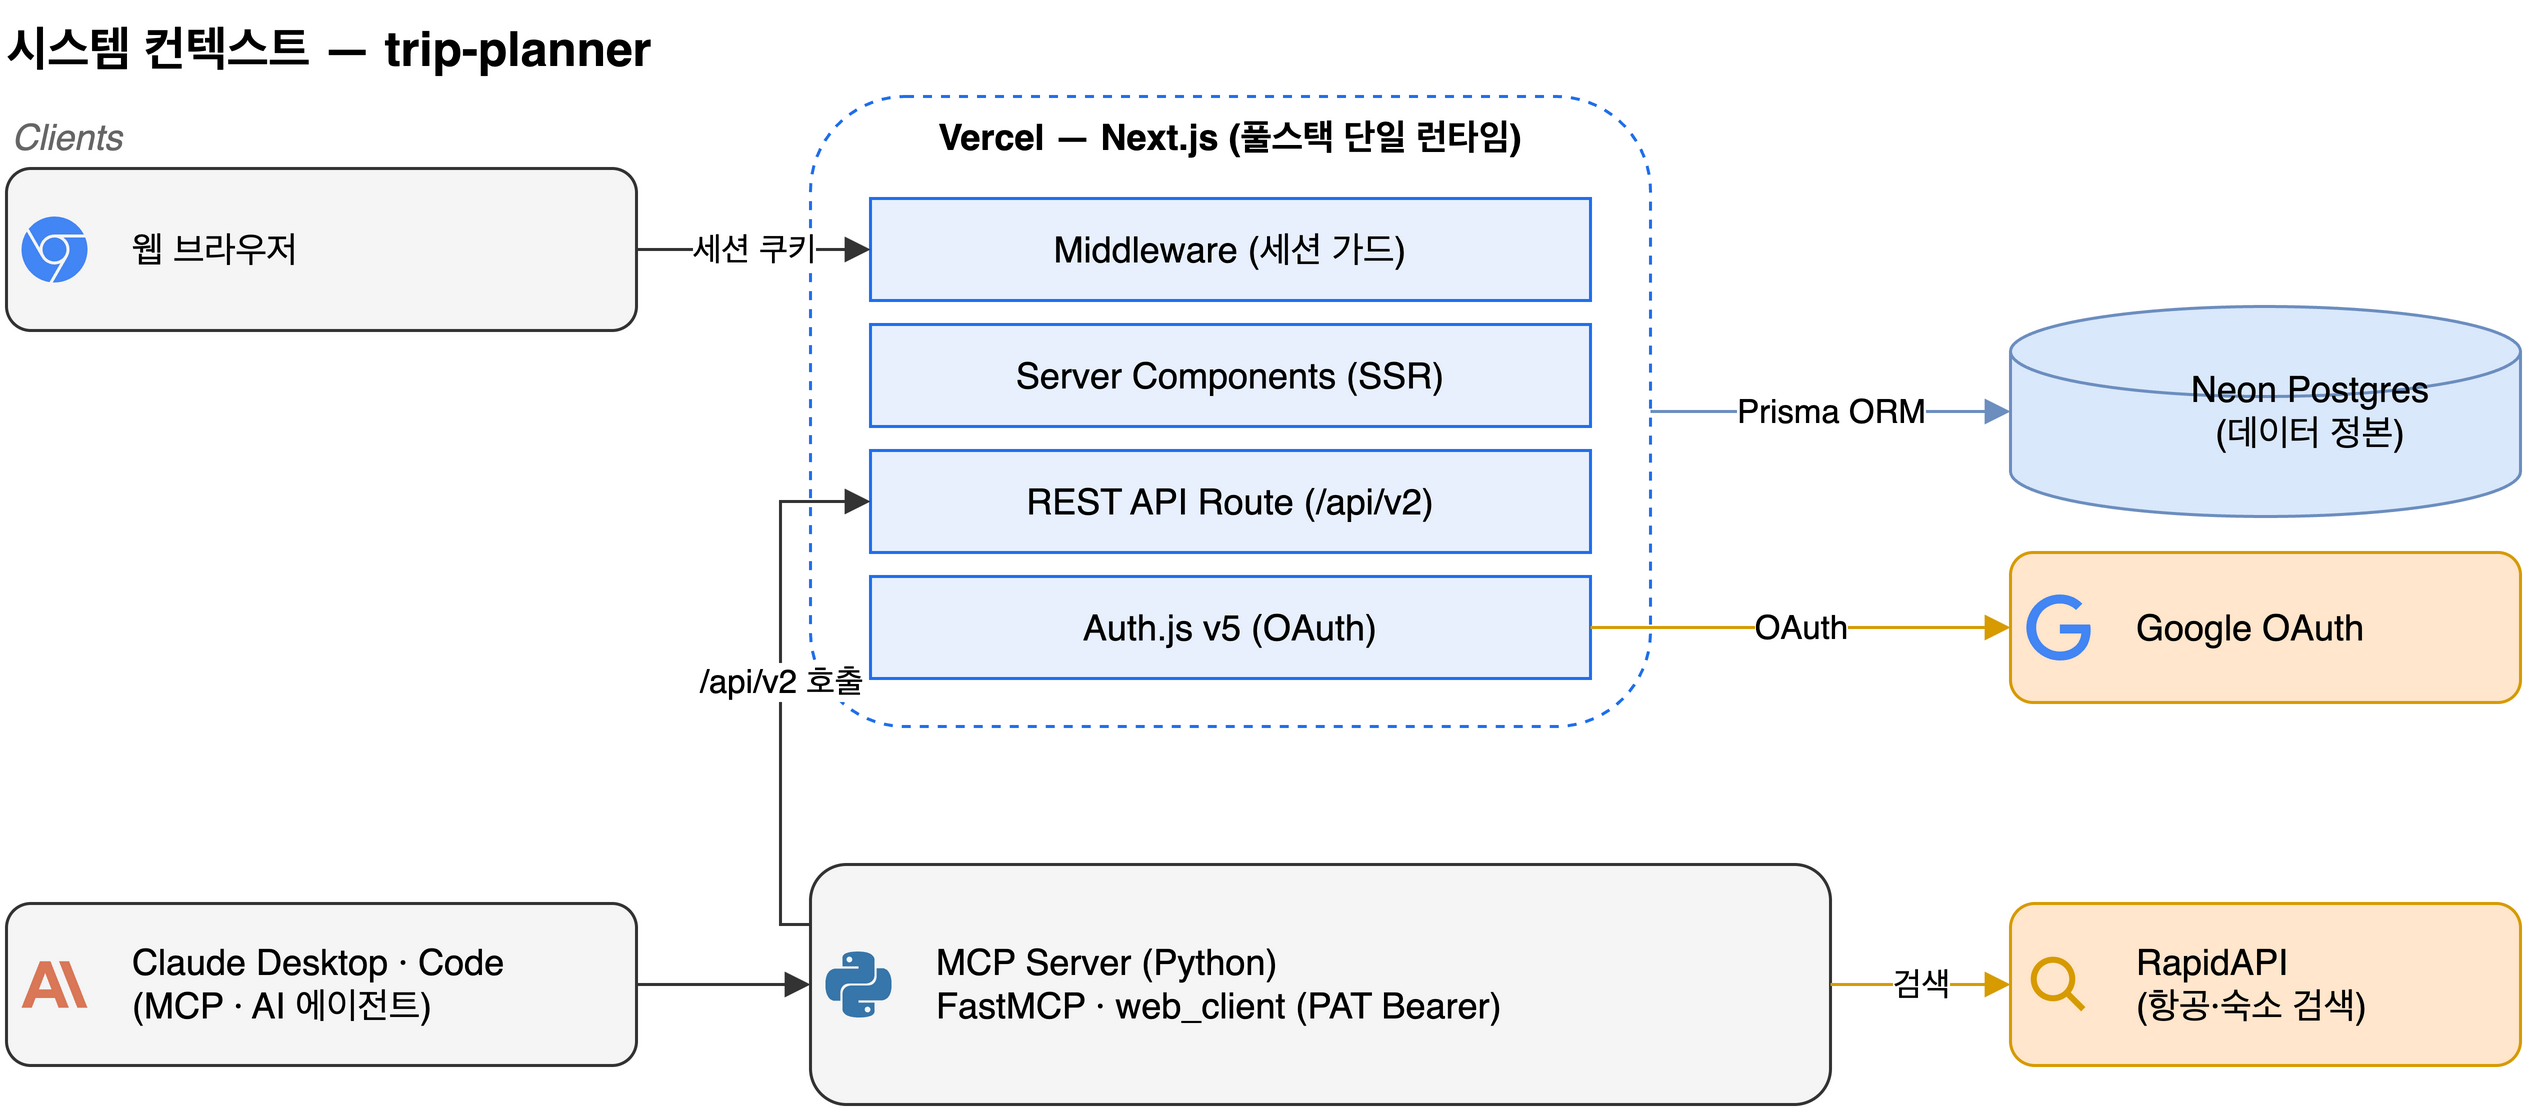
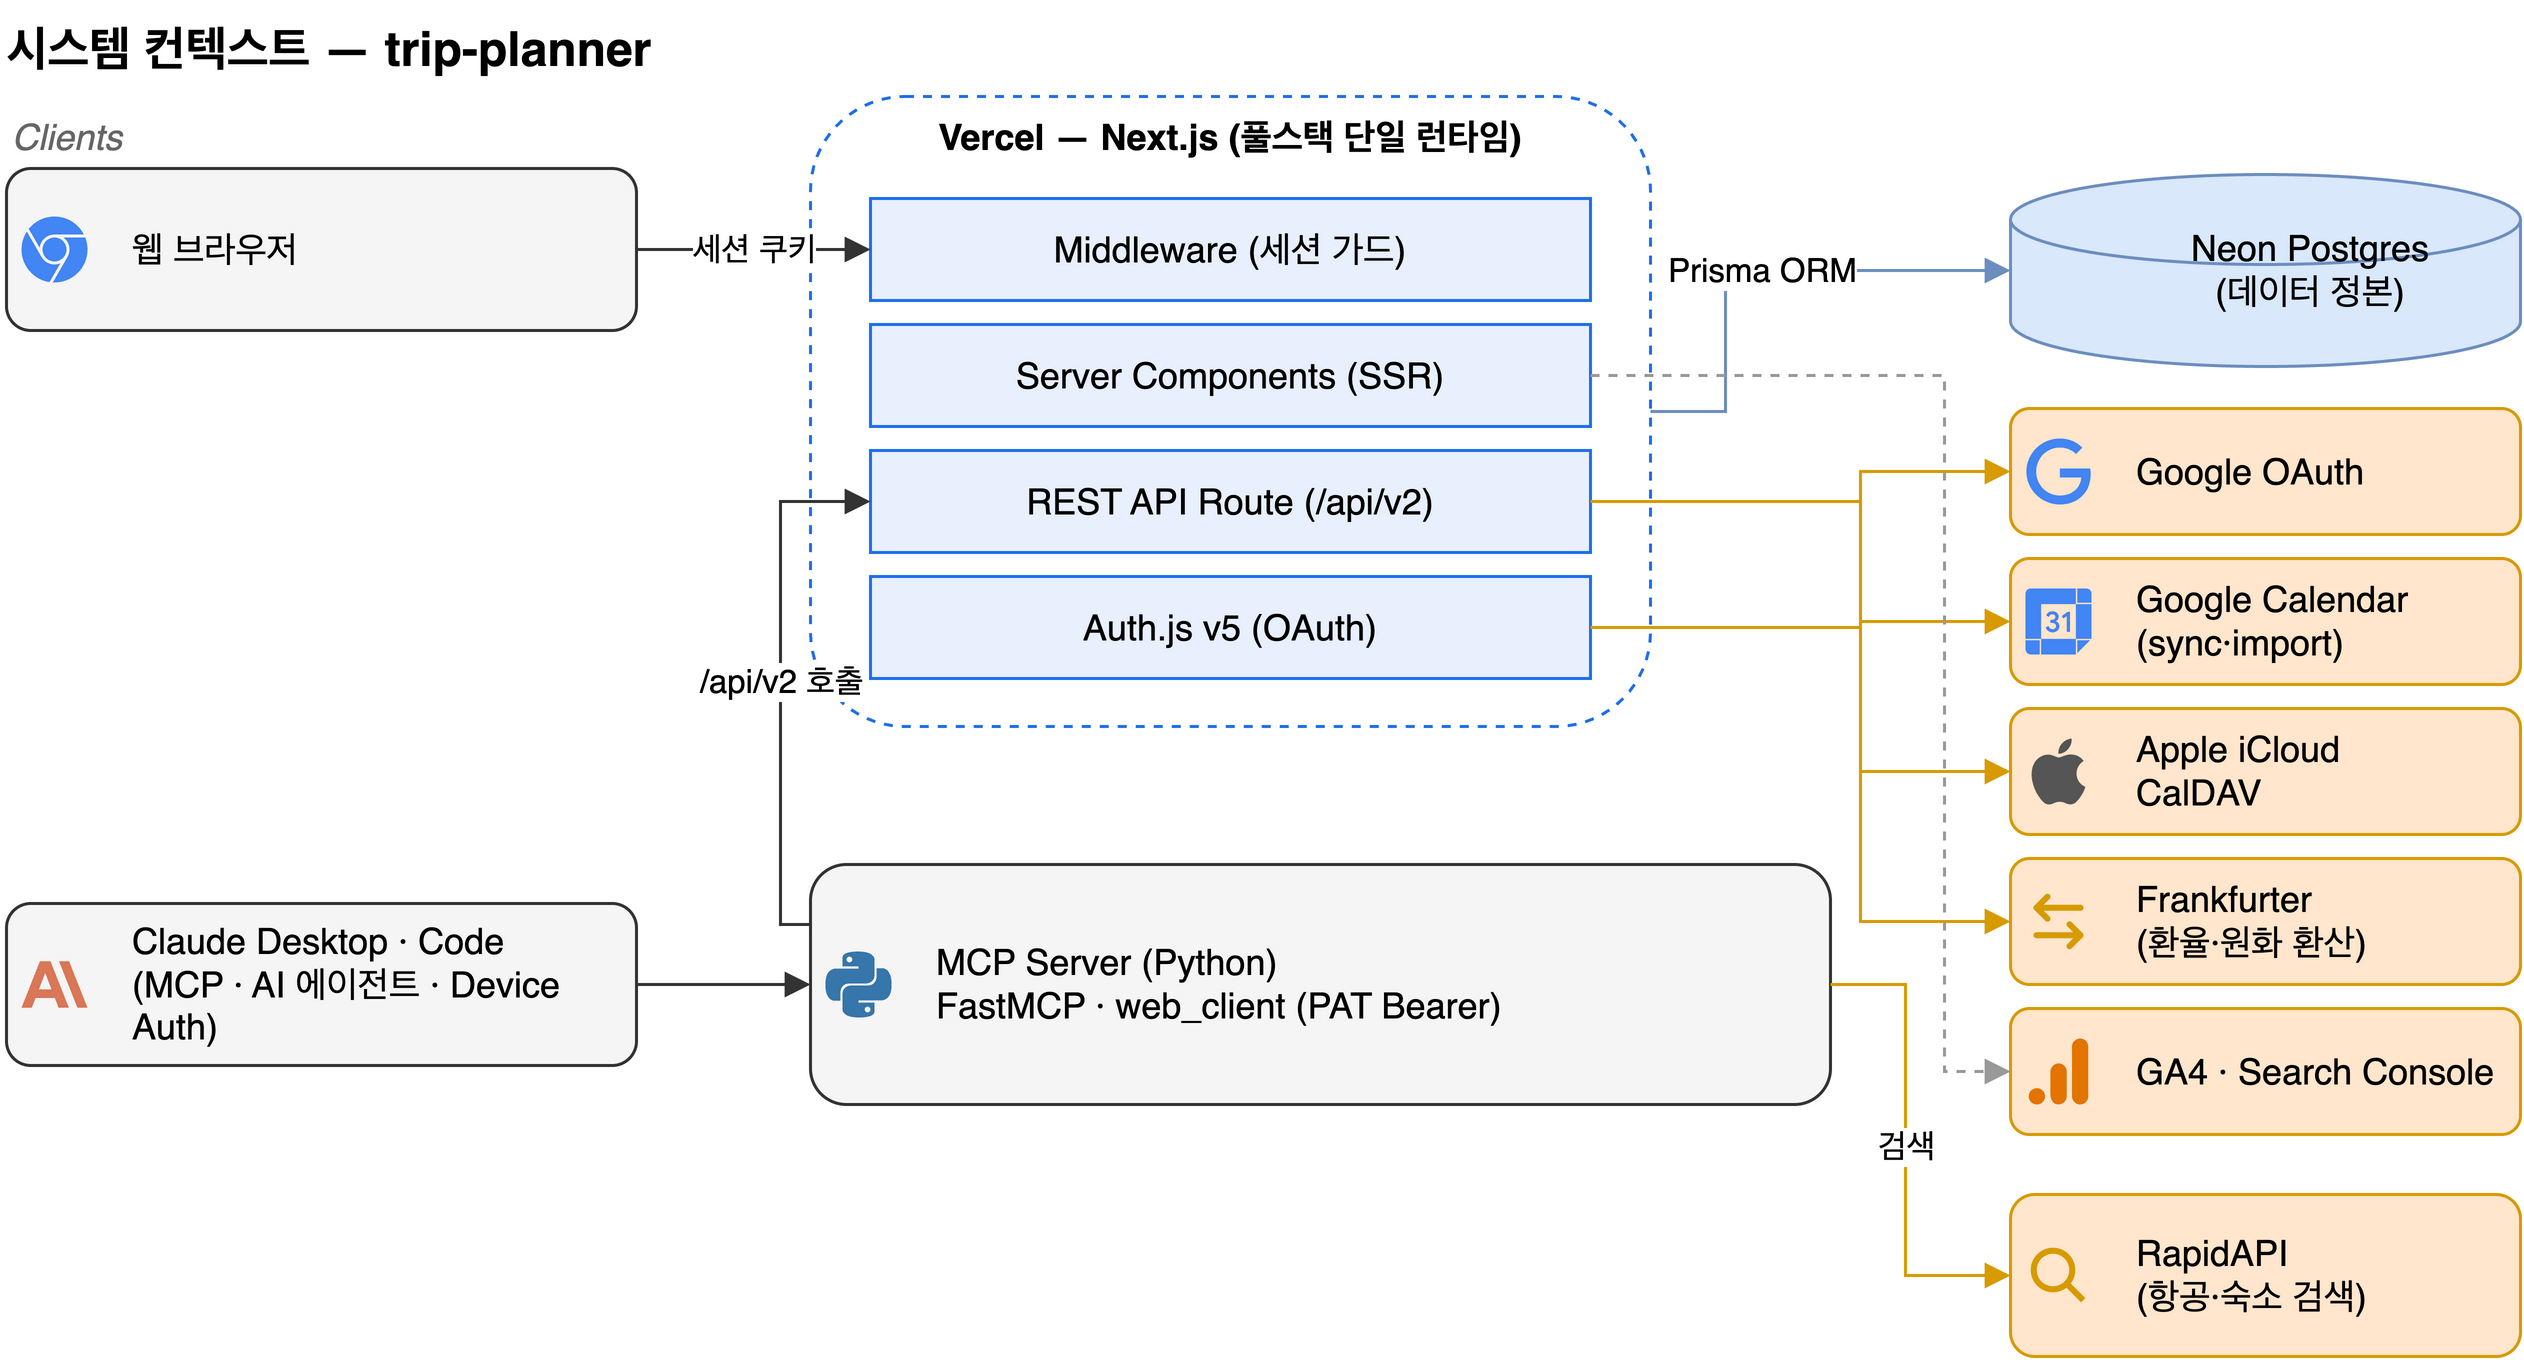
chore(release): v4.5.1 (#860)
## 작업 내용

v4.5.1 릴리즈. 개발 문서(ERD·아키텍처·시스템 컨텍스트 다이어그램)를 현재 데이터 모델·외부 연동 구성에 맞게 현행화한
결과를 릴리즈합니다.

## 변경 사항

- `CHANGELOG.md` — 4.5.1 섹션 towncrier 빌드 (docs 단편 소비)
- `pyproject.toml` · `uv.lock` — 버전 4.5.0 → 4.5.1

## 릴리즈 범위 (develop → main)

- 개발 문서 5종 + system-context 다이어그램 현행화 (#857, 이슈 #856)

## 자가 검증

| 항목 | 결과 | 비고 |
|------|------|------|
| towncrier build | ✅ 완료 | docs 단편 소비, CHANGELOG 4.5.1 생성 |
| 버전 정합 | ✅ 완료 | pyproject.toml · uv.lock = 4.5.1 |
| 빌드/테스트 | ⬜ 해당없음 | docs-only, 코드 무변경 |

머지 후 CI가 자동으로 태그·GitHub Release·PyPI 배포·main→develop sync PR을 생성합니다.

Pull request: chore(release): v4.5.1
## 작업 내용

v4.5.1 릴리즈. 개발 문서(ERD·아키텍처·시스템 컨텍스트 다이어그램)를 현재 데이터 모델·외부 연동 구성에 맞게 현행화한 결과를 릴리즈합니다.

## 변경 사항

- `CHANGELOG.md` — 4.5.1 섹션 towncrier 빌드 (docs 단편 소비)
- `pyproject.toml` · `uv.lock` — 버전 4.5.0 → 4.5.1

## 릴리즈 범위 (develop → main)

- 개발 문서 5종 + system-context 다이어그램 현행화 (#857, 이슈 #856)

## 자가 검증

| 항목 | 결과 | 비고 |
|------|------|------|
| towncrier build | ✅ 완료 | docs 단편 소비, CHANGELOG 4.5.1 생성 |
| 버전 정합 | ✅ 완료 | pyproject.toml · uv.lock = 4.5.1 |
| 빌드/테스트 | ⬜ 해당없음 | docs-only, 코드 무변경 |

머지 후 CI가 자동으로 태그·GitHub Release·PyPI 배포·main→develop sync PR을 생성합니다.

diff --git a/docs/ERD.md b/docs/ERD.md
@@ -47,8 +47,6 @@ erDiagram
         int id PK "autoincrement"
         string title "여행 제목"
         text description "여행 설명 (마크다운)"
-        timestamptz startDate "여행 시작일"
-        timestamptz endDate "여행 종료일"
         string createdBy FK "생성자"
         string updatedBy FK "최종 수정자"
         timestamptz createdAt "생성 시각"
@@ -74,9 +72,11 @@ erDiagram
         varchar endTimezone "종료 표시 시간대 (IANA, NULL이면 startTimezone)"
         string location "장소명"
         text memo "메모"
+        text url "참고 링크 (예약·정보 페이지, nullable)"
         decimal cost "예상 비용 (10,2)"
         varchar currency "ISO 4217 통화 코드 (기본 EUR)"
         enum paymentTiming "지출 시점: ADVANCE(사전) ON_SITE(현장, 기본값)"
+        boolean allDay "종일 일정 여부 (is_all_day, 기본 false)"
         int sortOrder "일자 내 표시 순서 (0부터)"
         timestamptz createdAt "생성 시각"
         timestamptz updatedAt "수정 시각"
@@ -105,6 +105,7 @@ erDiagram
         int id PK "autoincrement"
         int tripId FK,UK "여행당 1개 (v2.9.0+ 정본)"
         string ownerId FK "공유 캘린더 소유 주인"
+        enum provider "캘린더 제공자: GOOGLE(기본) APPLE (spec 024)"
         string calendarId "외부 캘린더 ID"
         string calendarName "표시 이름"
         timestamptz lastSyncedAt "최근 동기화 시각"
@@ -133,6 +134,7 @@ erDiagram
         int id PK "autoincrement"
         string userId FK "per-user (레거시 v2.8.0)"
         int tripId FK "소속 여행"
+        enum provider "캘린더 제공자: GOOGLE(기본) APPLE"
         string calendarId "외부 캘린더 ID"
         enum calendarType "DEDICATED PRIMARY"
         string calendarName "표시 이름"
@@ -145,6 +147,70 @@ erDiagram
         int activityId FK "원천 활동"
         string googleEventId "외부 이벤트 ID"
         string syncedEtag "최근 동기화 ETag"
+    }
+
+    AppleCalendarCredential {
+        string userId PK,FK "소유 사용자 (1:1)"
+        string appleId "Apple ID"
+        string encryptedPassword "AES-256-GCM 암호화 app password"
+        string iv "암호화 IV (base64, 12바이트)"
+        timestamptz lastValidatedAt "최근 검증 시각"
+        string lastError "최근 오류"
+    }
+
+    ImportRun {
+        int id PK "autoincrement"
+        int tripId FK "소속 여행"
+        string triggeredByUserId FK "실행 사용자"
+        enum provider "출처: GOOGLE APPLE"
+        string externalCalendarId "외부 캘린더 ID"
+        int importedCount "가져온 수"
+        int skippedCount "건너뛴 수"
+        int failedCount "실패 수"
+        array failedTitles "실패 제목 목록"
+        timestamptz startedAt "시작 시각"
+        timestamptz finishedAt "종료 시각"
+    }
+
+    ActivityDraft {
+        int id PK "autoincrement"
+        int tripId FK "소속 여행"
+        int dayId FK "배치 일자 (nullable)"
+        int importRunId FK "소속 가져오기 실행"
+        enum provider "출처: GOOGLE APPLE"
+        string externalCalendarId "외부 캘린더 ID"
+        string externalEventId "외부 이벤트 ID"
+        string title "제목 (외부 자동 채움)"
+        timestamptz startTime "시작 (외부 자동)"
+        timestamptz endTime "종료 (외부 자동)"
+        boolean isAllDay "종일 여부"
+        string locationText "장소 텍스트"
+        text description "설명"
+        varchar startTimezone "시작 표시 시간대 (사용자 보강)"
+        varchar endTimezone "종료 표시 시간대 (사용자 보강)"
+        enum status "PENDING PROMOTED DELETED"
+        int promotedToActivityId FK,UK "승격된 활동 (nullable)"
+        timestamptz lastRefreshedAt "최근 갱신 시각"
+    }
+
+    ExchangeRate {
+        int id PK "autoincrement"
+        date date "환율 일자"
+        varchar base "기준 통화 (ISO 4217)"
+        decimal rateToKrw "현지 1단위 = 원화 N (18,6)"
+        timestamptz fetchedAt "확보 시각"
+    }
+
+    DeviceAuthorizationRequest {
+        string id PK "cuid"
+        string deviceCodeHash UK "디바이스 코드 해시"
+        string userCode UK "사용자 코드"
+        enum status "PENDING APPROVED DENIED"
+        string userId FK "승인 사용자 (nullable)"
+        timestamptz expiresAt "만료 시각"
+        int interval "폴링 간격(초, 기본 5)"
+        timestamptz lastPolledAt "최근 폴링 시각"
+        timestamptz createdAt "생성 시각"
     }
 
     User ||--o{ Account : "has"
@@ -166,7 +232,17 @@ erDiagram
     User ||--o{ GCalLink : "legacy per-user"
     GCalLink ||--o{ GCalEventMapping : "legacy maps"
     Activity ||--o{ GCalEventMapping : "legacy exported as"
+    User ||--o| AppleCalendarCredential : "stores (1:1)"
+    Trip ||--o{ ImportRun : "imported into"
+    User ||--o{ ImportRun : "triggers"
+    ImportRun ||--o{ ActivityDraft : "produces"
+    Trip ||--o{ ActivityDraft : "staged in"
+    Day ||--o{ ActivityDraft : "placed on (nullable)"
+    Activity ||--o| ActivityDraft : "promoted from"
+    User ||--o{ DeviceAuthorizationRequest : "approves"
 ```
+
+> `ExchangeRate`는 다른 엔티티와 FK 관계가 없는 독립 캐시 테이블이다 — `(date, base)`당 한 줄로 원화 근사 시세를 저장한다(spec 062).
 
 ## 설계 결정
 
@@ -178,12 +254,12 @@ erDiagram
 - nullable: 대부분 활동은 Day 도시 시간대와 동일하므로 생략 가능
 - 예: `startTimezone: "Asia/Seoul"` → 표시: `13:00 KST`
 
-### Day의 일자 번호 (dayNumber)
+### 여행 기간 (derived) 및 일자 번호
 
+- **Trip은 `startDate`/`endDate` 컬럼을 가지지 않는다** (spec 029 T051, v3.0.0 contract 단계에서 DROP). 시작·종료일은 등록된 Day의 min/max date에서 파생한다 — `src/lib/trip-period.ts::getDerivedPeriod`
 - Day는 `sortOrder` 컬럼을 가지지 않는다 (v2.7.1에서 DROP)
-- "DAY 1, DAY 2…" 표시는 `(date - trip.startDate) + 1`로 파생
+- "DAY 1, DAY 2…" 표시는 `(date - 최소 Day date) + 1`로 파생
 - `(tripId, date)` 유니크 제약으로 같은 날짜 중복 차단
-- Day 추가 시 date가 Trip 범위 밖이면 Trip.startDate/endDate가 자동 확장됨
 - v1 API(`/api/trips/...`)는 응답에 `sortOrder`를 동적 부착해 MCP 호환 유지
 
 ### 캘린더 모델 이원화 (v2.9.0~v2.10.0)
@@ -199,3 +275,26 @@ erDiagram
 | 레거시 | `GCalEventMapping` | v2.8.0 | per-user 매핑. v2.10.0에서 410 Gone 라우트로 전환 |
 
 레거시 두 테이블의 DROP은 후속 릴리즈(v2.11.0+)에서 contract 단계로 진행. 자세한 정책은 [ADR-0003 per-trip-shared-calendar](./adr/0003-per-trip-shared-calendar.md) 참조.
+
+### 캘린더 제공자 추상화 (CalendarProviderId)
+
+- `GCalLink`·`TripCalendarLink`·`ActivityDraft`·`ImportRun`이 `provider` 컬럼(`GOOGLE`/`APPLE`, 기본 `GOOGLE`)을 공유한다 (spec 024 expand)
+- Apple iCloud는 CalDAV로 연동하며, app-specific password를 `AppleCalendarCredential`에 AES-256-GCM으로 암호화해 user당 1건 저장한다 (spec 025)
+
+### 외부 캘린더 가져오기 (ActivityDraft / ImportRun)
+
+외부 캘린더(Google·Apple) 이벤트를 **외부 → 내부 단방향**으로 가져오는 staging 영역 (spec 027, ADR-0006, v2.15.0).
+
+- `ImportRun`: 한 번의 가져오기 실행 기록(가져옴·건너뜀·실패 카운트)
+- `ActivityDraft`: 가져온 이벤트 초안. 사용자가 검토 후 `promote`하면 `Activity`로 승격되고 `promotedToActivityId`로 연결된다. `(provider, externalCalendarId, externalEventId)` 유니크로 중복 가져오기를 차단
+- trip 캘린더 정본(ADR-0003)은 그대로 유지 — 가져오기는 정본을 건드리지 않는다
+
+### 헤드리스 인증 (DeviceAuthorizationRequest)
+
+- AI 에이전트·CLI가 브라우저 없이 인증하는 Device Authorization Grant 상태 (spec 060)
+- 승인(브라우저)과 폴링(에이전트) 두 요청이 공유하는 단명 레코드. 승인·만료로 소비되면 삭제되며 raw 토큰은 보관하지 않는다(승인 후 폴링 시 PAT 발급)
+
+### 원화 근사 환산 캐시 (ExchangeRate)
+
+- 일자·기준통화별 원화 근사 시세를 `(date, base)`당 한 줄로 캐시 (spec 062)
+- 여행자가 편집하지 않는 표시 보조 데이터 — 활동·금액 정본과 무관. 외부 환율 API(Frankfurter, ECB 기반)에서 자동 확보한다

diff --git a/docs/ARCHITECTURE.md b/docs/ARCHITECTURE.md
@@ -54,12 +54,17 @@ graph TB
     subgraph "External"
         NeonDB[(Neon Postgres)]
         Google[Google OAuth]
+        GoogleCal[Google Calendar API]
+        AppleCalDAV[Apple iCloud CalDAV]
+        FX[Frankfurter 환율 API]
+        Analytics[GA4 · Search Console]
         RapidAPI[RapidAPI<br/>Booking/Flights]
         Keychain[macOS Keychain]
     end
 
     Browser -->|세션 쿠키| Middleware --> Pages --> API
     Browser -->|Google 로그인| AuthConfig --> Google
+    Browser -.->|분석 비콘| Analytics
     ClaudeDesktop --> MCPServer
     ClaudeCLI --> MCPServer
     MCPServer --> Planner --> WebClient
@@ -68,7 +73,12 @@ graph TB
     WebClient --> Keychain
     API -->|Prisma ORM| NeonDB
     Pages -->|Prisma ORM| NeonDB
+    API -->|캘린더 sync·import| GoogleCal
+    API -->|CalDAV sync·import| AppleCalDAV
+    API -->|원화 환산| FX
 ```
+
+> 클라이언트 인증은 셋 — 웹은 세션 쿠키(Auth.js), 외부 클라이언트는 PAT Bearer, 헤드리스 에이전트는 Device Authorization Grant(spec 060). GA4·Search Console은 공개 페이지 한정 분석·검색 노출용이며 앱 화면은 noindex다(spec 057).
 
 ## 인증 흐름
 
@@ -110,15 +120,13 @@ sequenceDiagram
 
 ```mermaid
 graph LR
-    subgraph "API Routes (비즈니스 로직 + 데이터 접근 혼재)"
-        R1["/api/trips"]
-        R2["/api/trips/[id]"]
-        R3["/api/trips/[id]/days"]
-        R4["/api/trips/[id]/days/[dayId]"]
-        R5["/api/trips/[id]/days/[dayId]/activities"]
-        R6["/api/trips/[id]/days/[dayId]/activities/[id]"]
-        R7["/api/trips/[id]/members"]
-        R8["/api/tokens"]
+    subgraph "API Routes (비즈니스 로직 + 데이터 접근 혼재 · 대표 라우트, 실제 ~43개)"
+        R1["/api/trips · /[id] · /period"]
+        R2["/api/trips/[id]/days · activities"]
+        R3["/api/trips/[id]/members · invite · transfer"]
+        R4["/api/trips/[id]/calendar-import · drafts/*"]
+        R5["/api/v2/calendar/apple/*"]
+        R6["/api/tokens · auth/device/*"]
     end
 
     subgraph "Shared"
@@ -126,10 +134,12 @@ graph LR
         PR[prisma.ts<br/>DB 싱글톤]
     end
 
-    R1 & R2 & R3 & R4 & R5 & R6 & R7 & R8 --> AH
-    R1 & R2 & R3 & R4 & R5 & R6 & R7 & R8 --> PR
+    R1 & R2 & R3 & R4 & R5 & R6 --> AH
+    R1 & R2 & R3 & R4 & R5 & R6 --> PR
     PR --> DB[(Neon DB)]
 ```
+
+> 위는 자원군 대표 라우트다. 폐지된 경로(`gcal/*`, `v2/calendar/{connect,subscribe,sync}`는 410 Gone)를 포함하면 실제 라우트는 ~43개지만, 모두 동일한 **라우트 → auth-helpers → Prisma** 패턴을 따른다.
 
 **특징:**
 - 서비스/레포지토리 계층 없음 — 라우트가 Prisma를 직접 호출
@@ -174,13 +184,15 @@ graph TB
         P[planner.py<br/>일정 관리 12도구]
         SR[search.py<br/>검색 8도구]
         W[web_client.py<br/>HTTP 클라이언트]
+        RAP[rapidapi.py<br/>RapidAPI 클라이언트]
     end
 
     S --> P
     S --> SR
     P --> W
+    SR --> RAP
     W -->|PAT Bearer| API[trip.idean.me API]
-    SR -->|RapidAPI Key| RA[RapidAPI]
+    RAP -->|RapidAPI Key| RA[RapidAPI]
     W -->|토큰 저장/조회| KC[macOS Keychain]
 
     style W fill:#ff9,stroke:#333

diff --git a/docs/DOMAIN.md b/docs/DOMAIN.md
@@ -26,8 +26,14 @@ graph TB
         TCL[TripCalendarLink Aggregate]
         TCEM[TripCalendarEventMapping Entity]
         MCS[MemberCalendarSubscription Entity]
+        ACC[AppleCalendarCredential]
         GCL[GCalLink — 레거시]
         GCEM[GCalEventMapping — 레거시]
+    end
+
+    subgraph "가져오기 컨텍스트 (Import Context, v2.15.0+)"
+        IR[ImportRun Aggregate]
+        ADRF[ActivityDraft Entity]
     end
 
     TA -->|contains| DA
@@ -40,20 +46,26 @@ graph TB
     TCL -->|contains| MCS
     AA -.->|mapped as| TCEM
     UA -.->|owns ownerId| TCL
+    UA -.->|stores app password| ACC
     UA -.->|opts in| MCS
     TA -.->|legacy per-user| GCL
     GCL -->|contains| GCEM
+    TA -.->|imports into| IR
+    IR -->|produces| ADRF
+    ADRF -.->|promotes to| AA
 
     style TA fill:#f9f,stroke:#333
     style UA fill:#ff9,stroke:#333
     style TCL fill:#9ff,stroke:#333
+    style IR fill:#9f9,stroke:#333
     style GCL fill:#ddd,stroke:#999,stroke-dasharray: 5 5
 ```
 
-**3개 컨텍스트:**
-- **여행 컨텍스트**: Trip이 루트. Day, Activity, TripMember 포함. 기획 도메인 1~4를 구현
-- **인증 컨텍스트**: Auth.js v5 관리 영역. userId로만 다른 컨텍스트와 연결
-- **캘린더 컨텍스트** (v2.9.0+): 여행을 외부 공유 캘린더로 발행하는 별도 애그리거트. `TripCalendarLink`가 루트, 활동 ↔ 외부 이벤트 매핑(`TripCalendarEventMapping`, v2.10.0+)과 동행자 옵트인(`MemberCalendarSubscription`)을 보유. 레거시 `GCalLink`/`GCalEventMapping`(v2.8.0 per-user)은 무중단 병존, 후속 릴리즈에서 contract 예정. 정책: [ADR-0003 per-trip-shared-calendar](./adr/0003-per-trip-shared-calendar.md)
+**4개 컨텍스트:**
+- **여행 컨텍스트**: Trip이 루트. Day, Activity, TripMember 포함. 기획 도메인 1~4를 구현. 여행 기간(시작·종료일)은 컬럼이 아니라 등록된 Day의 min/max에서 파생한다 (spec 029, v3.0.0)
+- **인증 컨텍스트**: Auth.js v5 관리 영역(User·Account·Session). userId로만 다른 컨텍스트와 연결. 외부 클라이언트는 `PersonalAccessToken`, 헤드리스 에이전트는 `DeviceAuthorizationRequest`(Device Authorization Grant, spec 060)로 인증
+- **캘린더 컨텍스트** (v2.9.0+): 여행을 외부 공유 캘린더로 발행하는 별도 애그리거트. `TripCalendarLink`가 루트, 활동 ↔ 외부 이벤트 매핑(`TripCalendarEventMapping`, v2.10.0+)과 동행자 옵트인(`MemberCalendarSubscription`)을 보유. Google·Apple 제공자를 추상화하며(`CalendarProviderId`), Apple은 `AppleCalendarCredential`(암호화 app password)로 CalDAV 연동. 레거시 `GCalLink`/`GCalEventMapping`(v2.8.0 per-user)은 무중단 병존, 후속 릴리즈에서 contract 예정. 정책: [ADR-0003 per-trip-shared-calendar](./adr/0003-per-trip-shared-calendar.md)
+- **가져오기 컨텍스트** (v2.15.0+): 외부 캘린더(Google·Apple) 이벤트를 외부 → 내부 단방향으로 staging. `ImportRun`이 실행 단위, `ActivityDraft`가 초안이며 사용자 검토 후 `Activity`로 승격. 정책: [ADR-0006 external-calendar-import](./adr/0006-external-calendar-import-policy.md)
 
 ## 용어 사전
 
@@ -67,8 +79,7 @@ classDiagram
         +int id
         +string title
         +string description
-        +Date startDate
-        +Date endDate
+        +getDerivedPeriod() Period
         +createDay(date, title)
         +removeDay(dayId)
         +addMember(userId, role)

diff --git a/CHANGELOG.md b/CHANGELOG.md
@@ -9,6 +9,13 @@ and this project adheres to [Semantic Versioning](https://semver.org/spec/v2.0.0
 
 <!-- towncrier release notes start -->
 
+## [4.5.1] - 2026-07-02
+
+### Documentation
+
+- 개발 문서(ERD·아키텍처·시스템 컨텍스트 다이어그램)를 현재 데이터 모델과 외부 연동 구성에 맞게 현행화했습니다. 마지막 갱신 이후 도입된 지출 시점·환율 환산·외부 캘린더 가져오기·헤드리스 인증이 문서에 반영되지 않아 실제 구조와 어긋나 있었습니다. ([#856](https://github.com/idean3885/trip-planner/issues/856))
+
+
 ## [4.5.0] - 2026-06-26
 
 ### Added

diff --git a/docs/DEVELOPMENT.md b/docs/DEVELOPMENT.md
@@ -5,7 +5,7 @@
 ## 기술 스택
 
 - **MCP 서버**: Python 3.10+, FastMCP, httpx, macOS Keychain
-- **웹앱**: Next.js 15 (App Router, SSR), Auth.js v5, Tailwind CSS v3
+- **웹앱**: Next.js 16 (App Router, SSR), Auth.js v5 (next-auth 5 beta), Tailwind CSS v4
 - **DB**: Neon Postgres, Prisma 7 (@prisma/adapter-pg TCP)
 - **인증**: Google OAuth (웹), PAT (외부 클라이언트), OAuth CLI (자동 발급)
 - **테스트**: Vitest, React Testing Library, Playwright, pytest

diff --git a/docs/README.md b/docs/README.md
@@ -28,7 +28,7 @@
 | 계층 | 기술 |
 |------|------|
 | 프론트엔드 | Next.js 16 (App Router · Turbopack), React 19, Tailwind CSS v4, shadcn/ui |
-| 백엔드 | Next.js Server Components · Route Handlers, Auth.js v5 |
+| 백엔드 | Next.js Server Components · Route Handlers, Auth.js v5 (next-auth 5 beta) |
 | DB | Neon Postgres, Prisma 7 (TCP via `@prisma/adapter-pg`) |
 | MCP 서버 | Python 3.10+, FastMCP, httpx |
 | 테스트 | Vitest, Playwright, pytest |